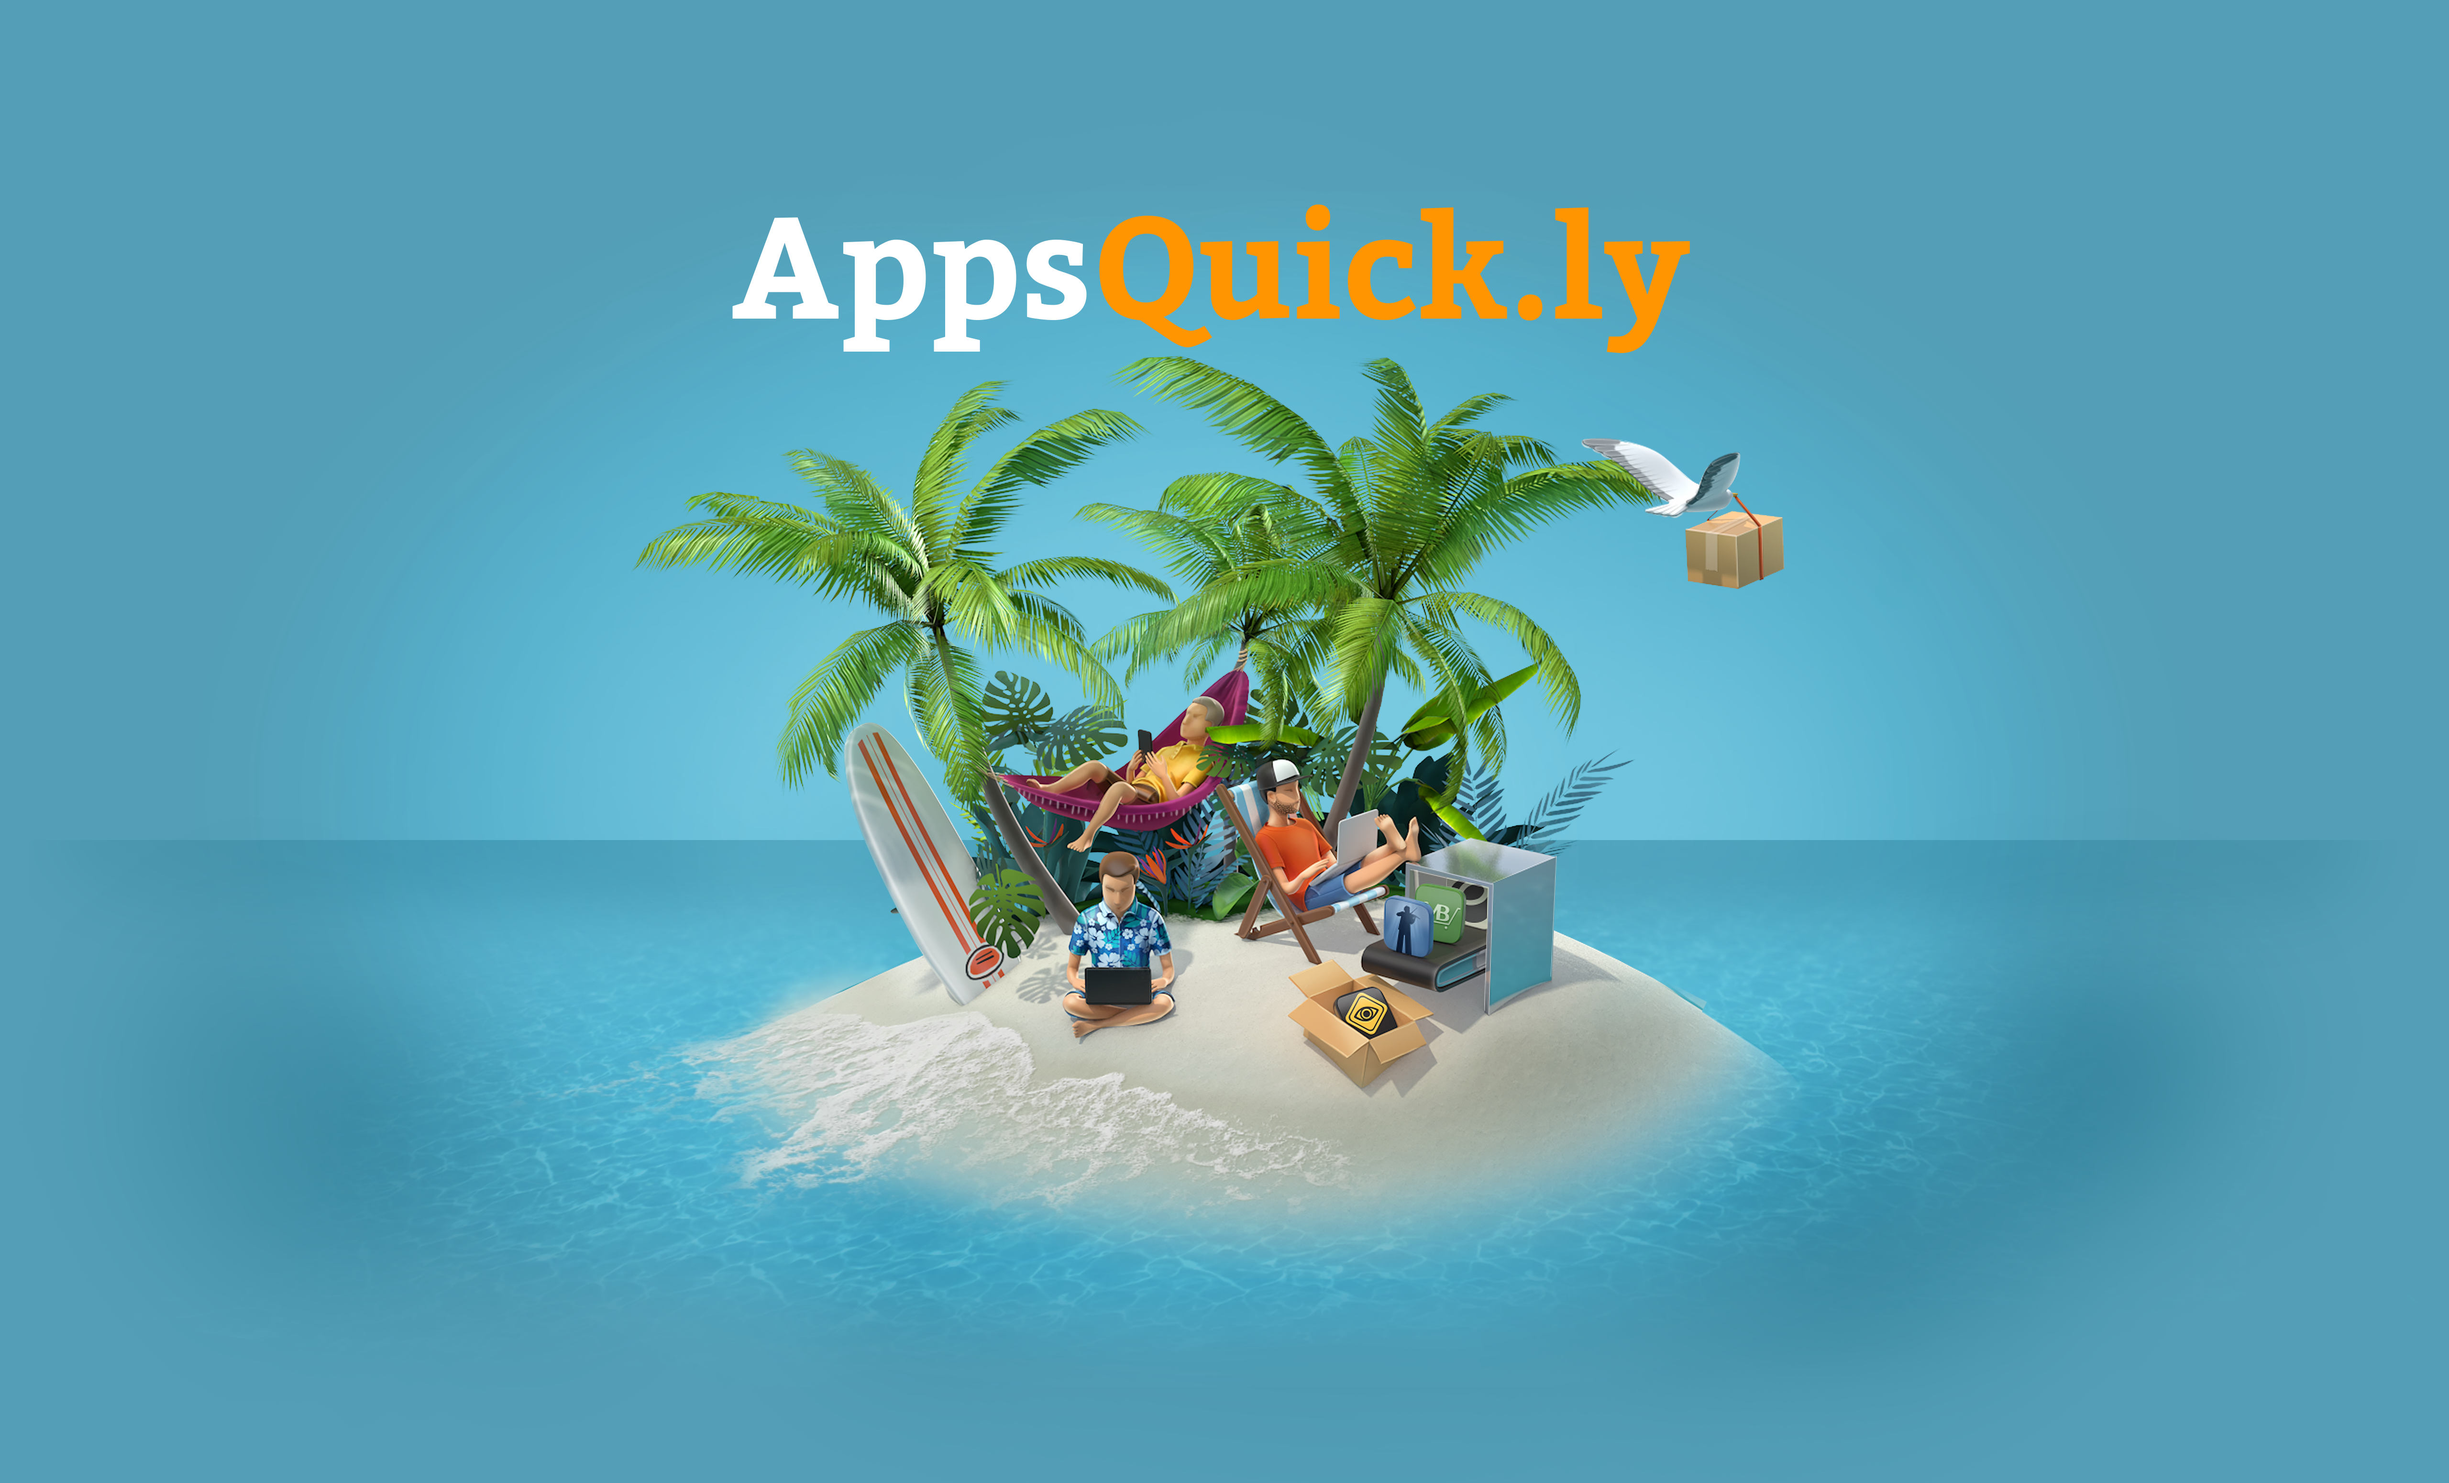
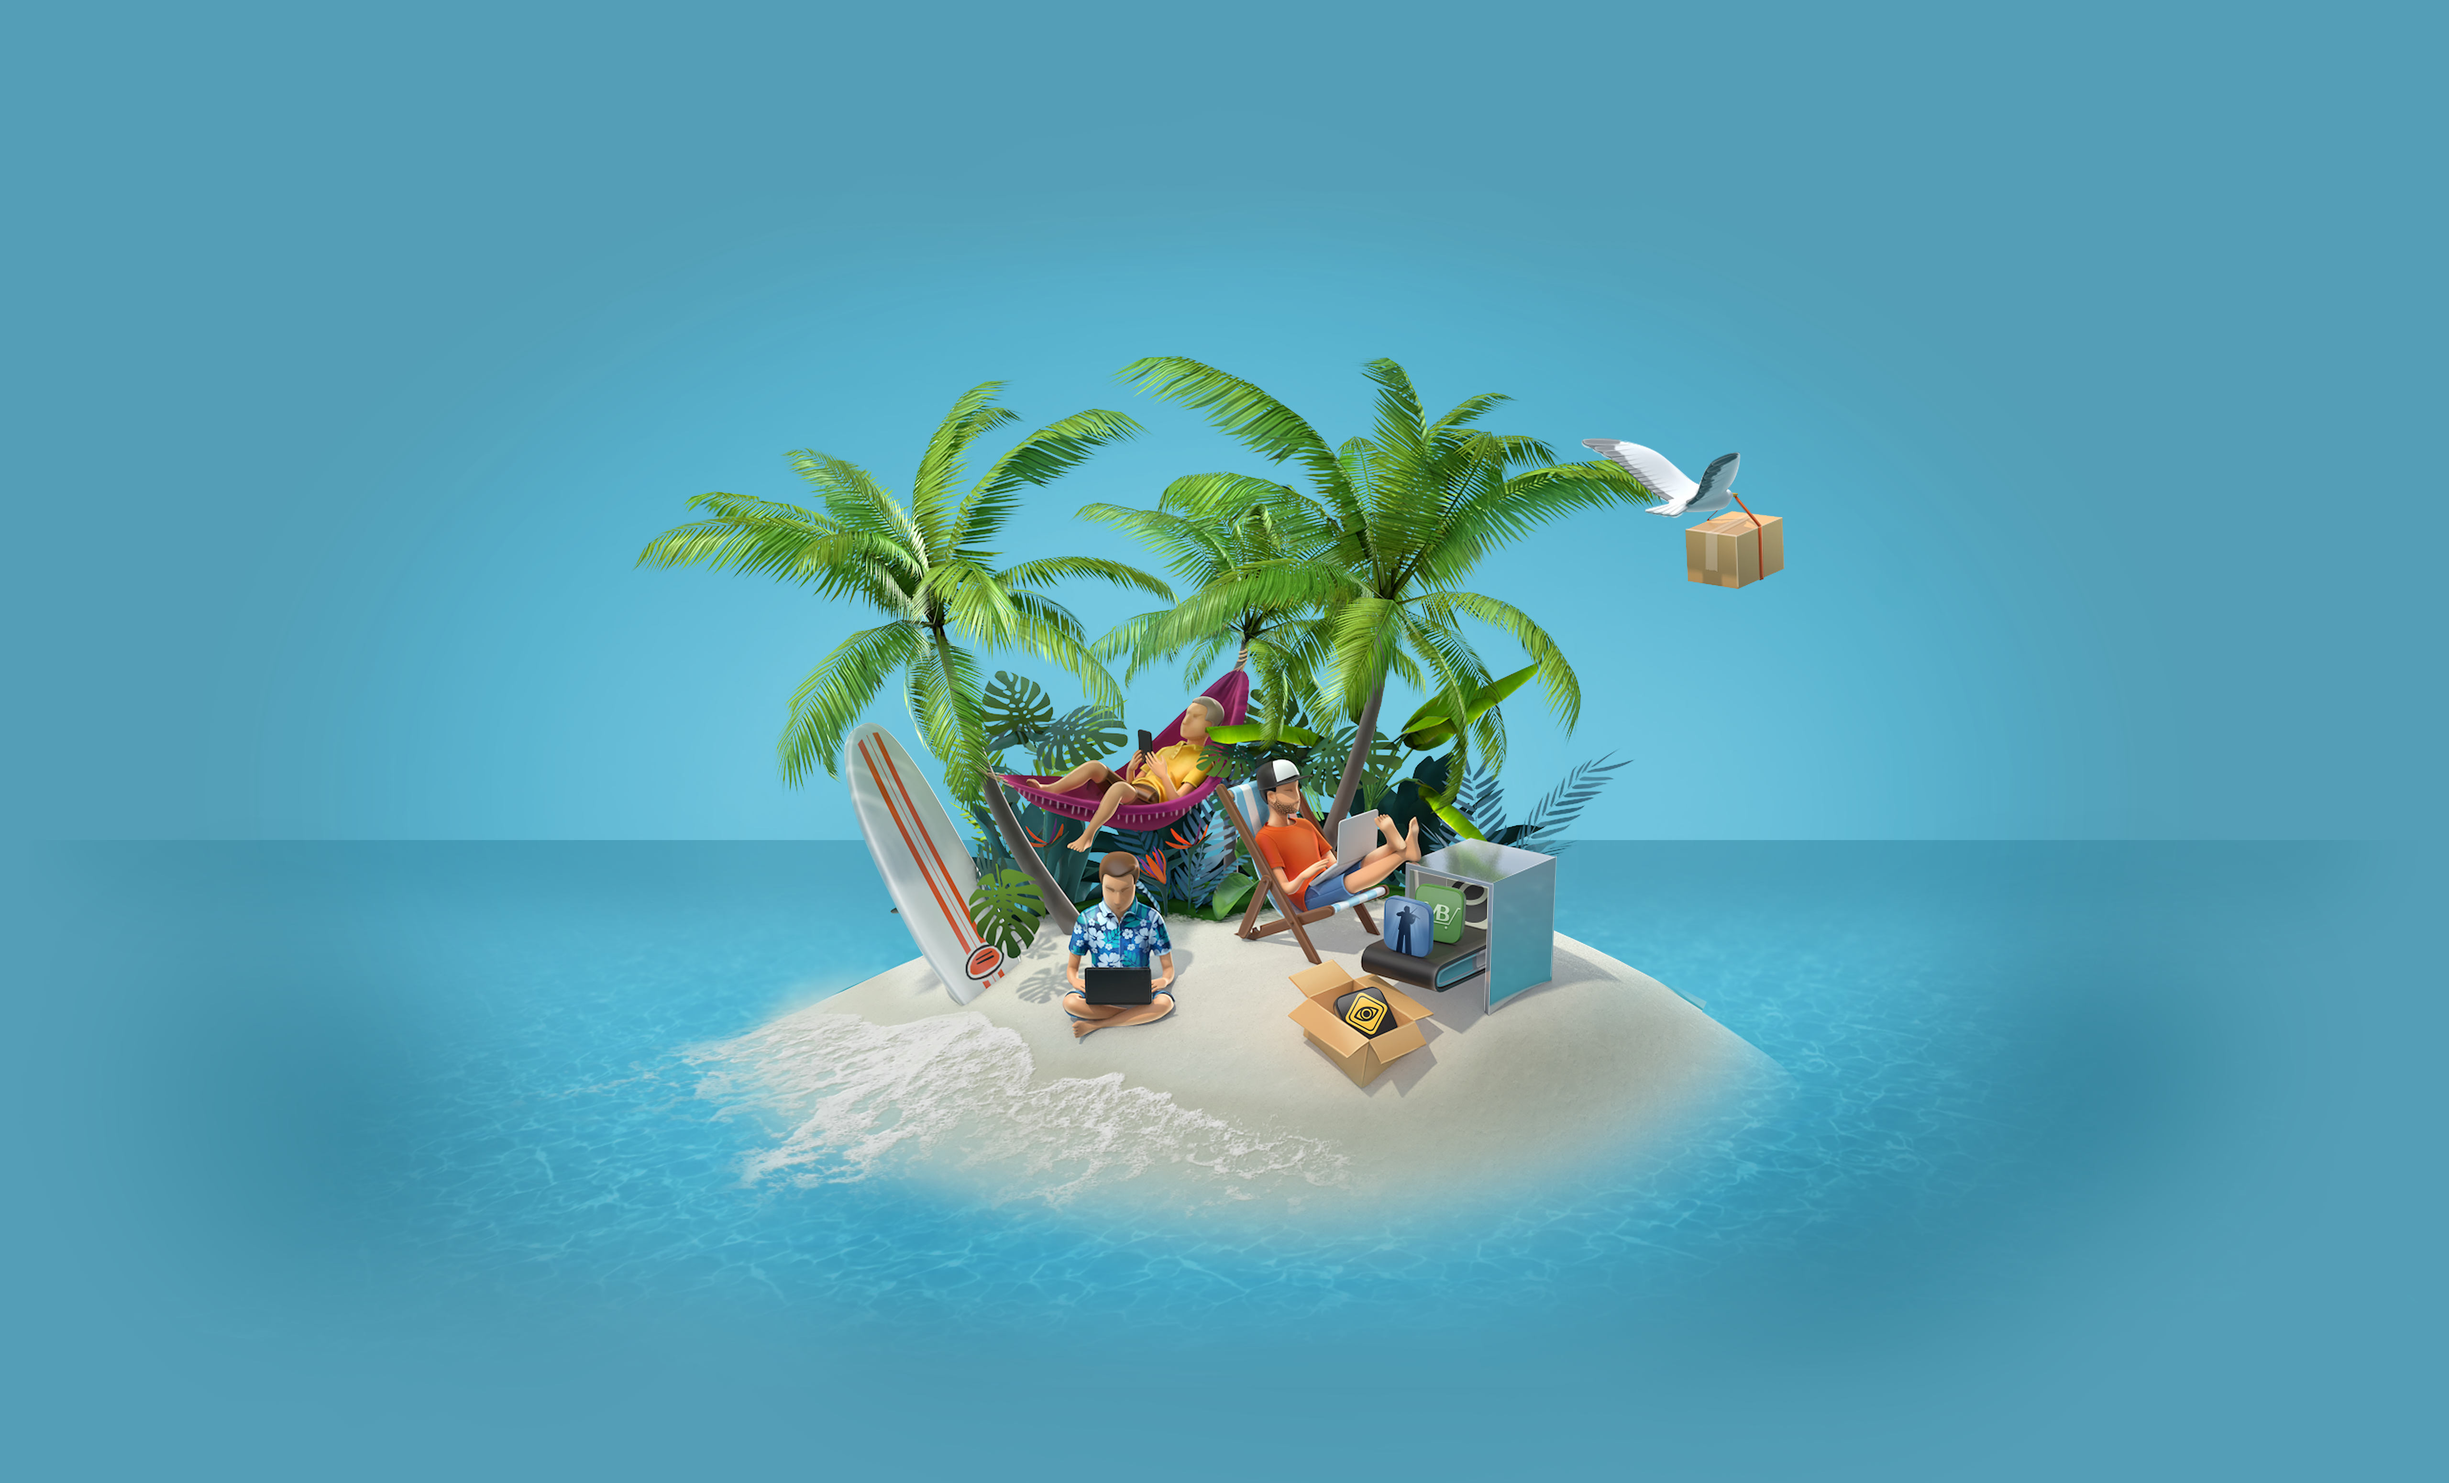
title in text.

Changed region(s): [[0.2812, 0.1239, 0.6875, 0.2477]]

diff --git a/index.html b/index.html
@@ -75,6 +75,7 @@
     </div><!-- End .caption -->
 </li>
 </ul><!-- End .main-slider -->
+<span class="pageTitle"><span style="color: #fff">Apps</span><span style="color: #ee8149">Quick</span><span style="color: #fff">.ly</span></span>
 <a href="#about" class="down"><i class="fa fa-angle-down"></i><span>scroll for more</span></a>
 </div><!-- End .slider-wrapper -->
 

diff --git a/css/style.css b/css/style.css
@@ -538,6 +538,17 @@ h1.section-title:after,
     position: relative;
 }
 
+.pageTitle {
+    width: 100%;
+    top: 7%;
+    text-align: center;
+    position: absolute;
+    z-index: 51;
+    font-size: 55pt;
+    font-weight: bold;
+    -webkit-backface-visibility: hidden;
+}
+
 .down {
     bottom: 50px;
     color: #fff;
